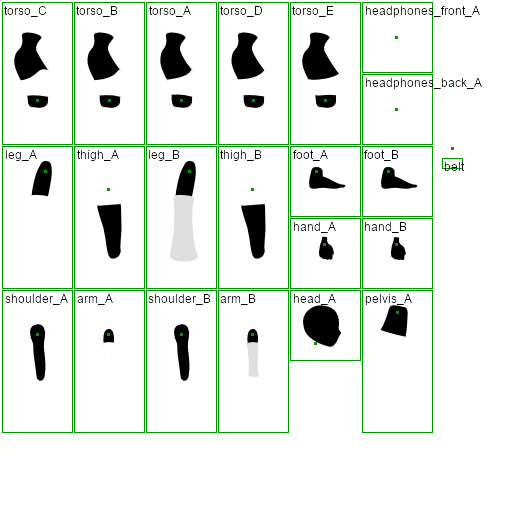
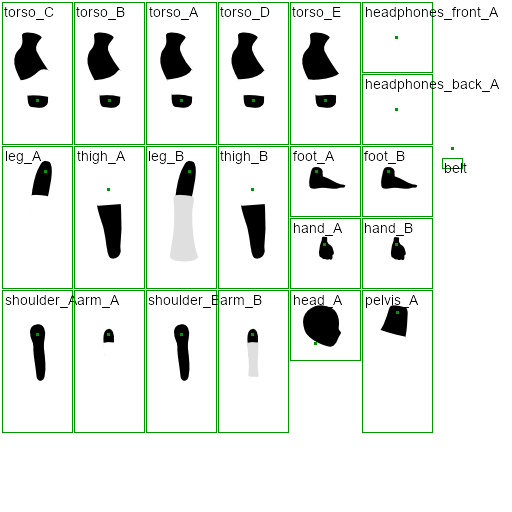
font size constant

diff --git a/show.py b/show.py
@@ -2,7 +2,7 @@ import xml.etree.ElementTree
 from PIL import Image, ImageDraw, ImageFont
 
 
-# filenames
+# Filenames
 image_file = "character_skin.png"
 image_save_file = "character_skin_borders.png"
 areas_file = "skin_sprites_areas.xml"
@@ -16,6 +16,9 @@ text_color = black
 dor_color = dark_green
 rectangle_color = dark_green
 
+# Font size
+font_size = 14
+
 # Mode (True -- show image, False -- save with another filename)
 SHOW = False
 
@@ -23,7 +26,7 @@ SHOW = False
 def main():
     im = Image.open(image_file)
     draw = ImageDraw.Draw(im)
-    font = ImageFont.truetype("arial.ttf", 12)
+    font = ImageFont.truetype("arial.ttf", font_size)
 
     areas = xml.etree.ElementTree.parse(areas_file).getroot()
     dict_areas = []
